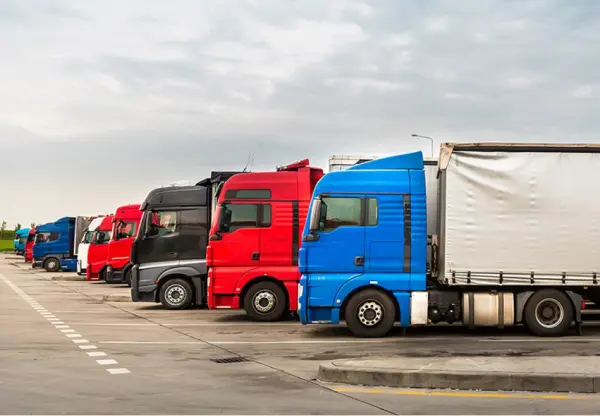
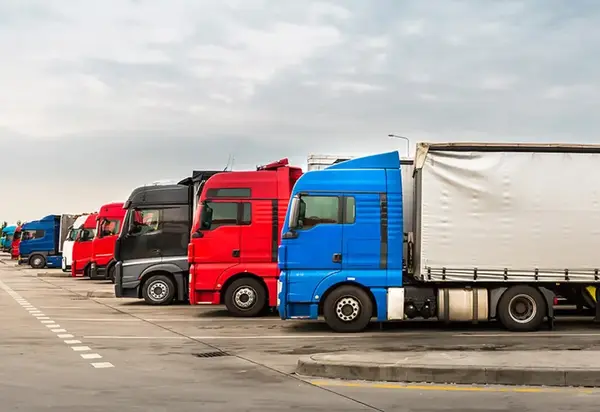
fix: - change images - update banner5 styles - fix gap between blocks

Changed region(s): [[0.0, 0.3204, 1.0, 1.0], [0.66, 0.0874, 0.69, 0.1165], [0.57, 0.0583, 0.6, 0.0874]]

diff --git a/arenda-ekskavatora-pogruzchika.html b/arenda-ekskavatora-pogruzchika.html
@@ -151,8 +151,8 @@
             </div>
         </div>
         <div class="banner">
-            <div class="custom-image cover 3x2 mobile:3x2">
-                <img src="assets/banners/Banner5.webp"
+            <div class="image cover 54x25 mobile:3x2">
+                <img id="banner5" src="assets/banners/Banner5full.webp"
                     srcset="assets/banners/Banner_mob5.webp 600w, assets/banners/Banner5.webp"
                     sizes="(max-width: 600px) 600px, 100vw" alt="banner">
                     <div class="image-overlay"></div>
@@ -168,7 +168,7 @@
             </div>
         </div>
         <div class="info">
-            <h2>Экскаваторы-погрузчики</h2>
+            <h2>Экскаватор-погрузчик</h2>
             <p>Экскаватор-погрузчик — универсальная техника, сочетающая функции экскаватора (ковш сзади) и фронтального погрузчика (ковш спереди). Используется в строительстве, коммунальном хозяйстве и сельском хозяйстве для копания, погрузки, расчистки и транспортировки и планировки материалов. Компактность и возможность установки навесного оборудования (гидромолот, вилы) делают его экономичным решением для сложных задач на вашем объекте.
                 В нашей компании вы можете заказать в аренду экскаватора-погрузчика с опытным машинистом , и получить задуманный результат в кратчайшие сроки , качественно. Вся техника не старше 2022 года выпуска. Подача техники в день обращения от 2-х часов. Предоставляем услуги Экскаватора-погрузчика по Санкт-Петербургу и Лен. области, возможны командировки.
             </p>

diff --git a/components/image/image.css b/components/image/image.css
@@ -3,25 +3,7 @@
   width: 100%;
   overflow: hidden;
 }
-.custom-image {
-  position: relative;
-  width: 100%;
-  overflow: hidden;
-  max-height: 600px;
-}
 
-.custom-image::before {
-  content: none;
-}
-.custom-image img {
-  position: relative;
-  top: -100px;
-  left: 0;
-  width: 100%;
-  height: 100%;
-  object-fit: cover;
-  object-position: center;
-}
 .image.cover img {
   object-fit: cover;
 }
@@ -46,6 +28,15 @@
   left: 0;
   width: 100%;
   height: 100%;
+  object-fit: cover;
+  object-position: center;
+}
+.image #banner5 {
+  position: absolute;
+  top: 0;
+  left: 0;
+  width: 100%;
+  height: 130%;
   object-fit: cover;
   object-position: center;
 }

diff --git a/styles.css b/styles.css
@@ -1144,7 +1144,7 @@ hr {
     }
 
     .info {
-        margin: 72px 20px 36px;
+        margin: 30px 20px 36px;
         gap: 12px;
     }
 
